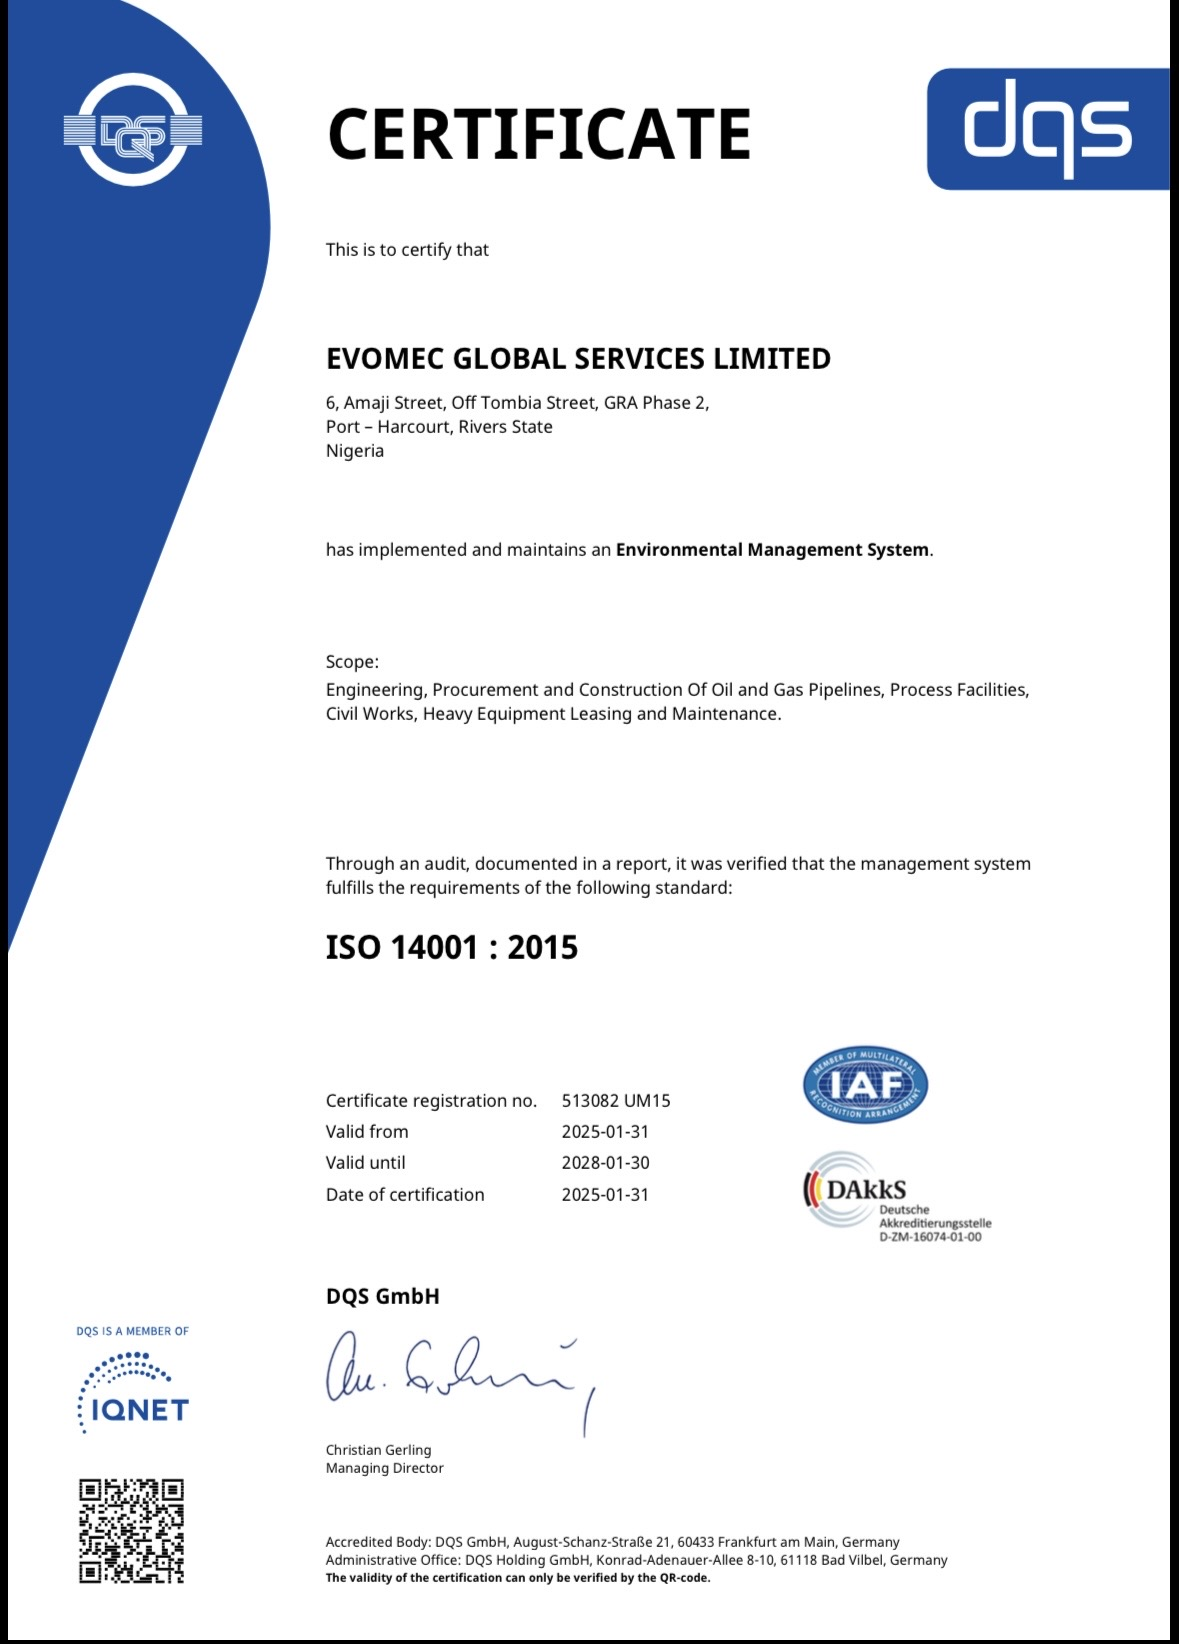
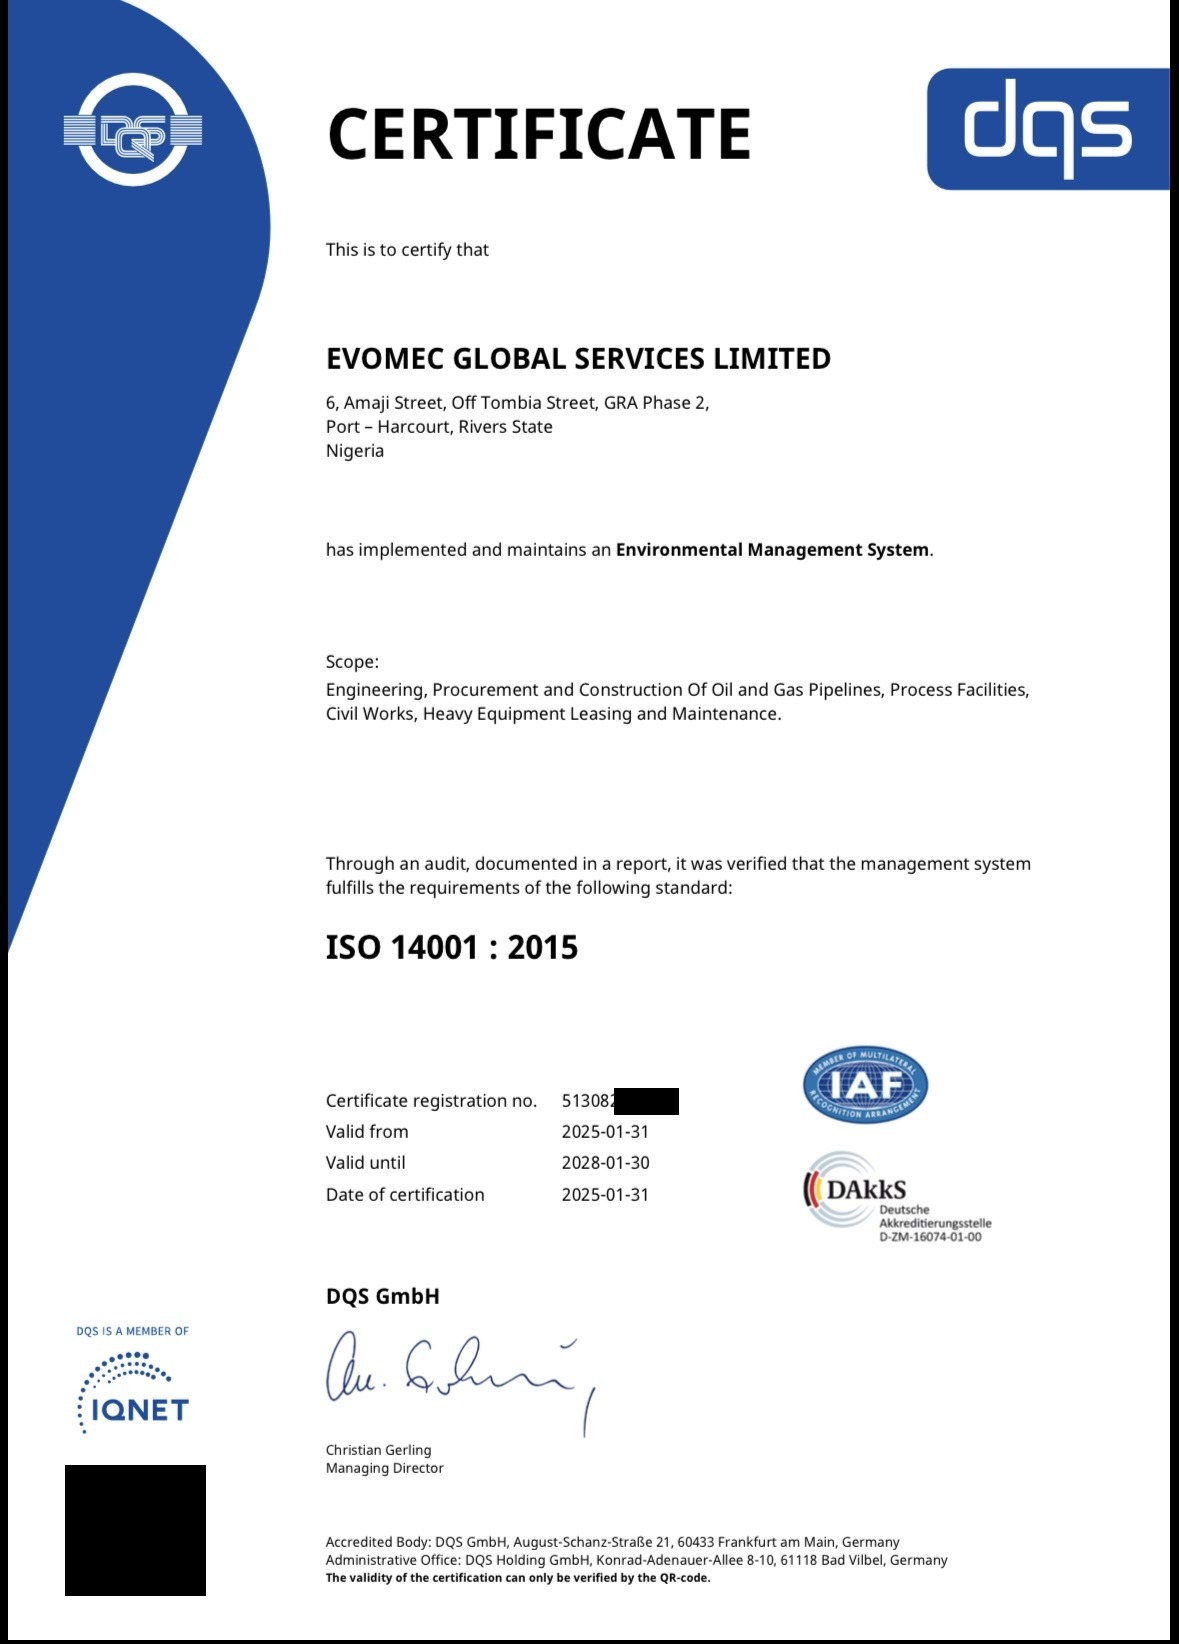
Redact QHSE certificate reg numbers/QR codes; add DQS+IQNet cert cards
- Black out the last 5 characters of the registration number and the
  QR code on all 4 existing certificate images (ISO 9001, 14001,
  45001, ISO/IEC 17025)
- Add 6 new certification cards to the QHSE page: redacted DQS and
  IQNet-annex certificates for ISO 9001:2015, ISO 14001:2015, and
  ISO 45001:2018

Claude-Session: https://claude.ai/code/session_01Rjb2Rv4DR2NMMckvi7mc5V

Changed region(s): [[0.0305, 0.8686, 0.1832, 0.9927], [0.5191, 0.6515, 0.5802, 0.6825]]

diff --git a/hse.html b/hse.html
@@ -263,6 +263,78 @@
         <span class="chip chip-success">Valid to 2028-05-30</span>
       </div>
     </button>
+
+    <button type="button" class="card cert-trigger text-left" style="padding:0; overflow:hidden;"
+      data-src="brand_assets/certifications/iso-9001-2015-dqs-2026.jpg" data-title="ISO 9001:2015 — Quality Management System (DQS)">
+      <div class="relative" style="aspect-ratio:1179/1640; border-bottom:1px solid rgba(44,110,155,0.28); background:#fff;">
+        <img src="brand_assets/certifications/iso-9001-2015-dqs-2026.jpg" alt="ISO 9001:2015 DQS certificate" class="absolute inset-0 w-full h-full object-cover object-top">
+      </div>
+      <div class="p-5">
+        <h3 class="text-title-md text-ink mb-1">ISO 9001:2015 (DQS)</h3>
+        <p class="text-body-sm text-ink-muted mb-2">Quality Management System &mdash; DQS</p>
+        <span class="chip chip-success">Valid to 2029-02-22</span>
+      </div>
+    </button>
+
+    <button type="button" class="card cert-trigger text-left" style="padding:0; overflow:hidden;"
+      data-src="brand_assets/certifications/iso-9001-2015-iqnet-2026.jpg" data-title="ISO 9001:2015 — Quality Management System (IQNet)">
+      <div class="relative" style="aspect-ratio:1179/1640; border-bottom:1px solid rgba(44,110,155,0.28); background:#fff;">
+        <img src="brand_assets/certifications/iso-9001-2015-iqnet-2026.jpg" alt="ISO 9001:2015 IQNet certificate" class="absolute inset-0 w-full h-full object-cover object-top">
+      </div>
+      <div class="p-5">
+        <h3 class="text-title-md text-ink mb-1">ISO 9001:2015 (IQNet)</h3>
+        <p class="text-body-sm text-ink-muted mb-2">Quality Management System &mdash; IQNet</p>
+        <span class="chip chip-success">Valid to 2029-02-22</span>
+      </div>
+    </button>
+
+    <button type="button" class="card cert-trigger text-left" style="padding:0; overflow:hidden;"
+      data-src="brand_assets/certifications/iso-14001-2015-dqs-2026.jpg" data-title="ISO 14001:2015 — Environmental Management System (DQS)">
+      <div class="relative" style="aspect-ratio:1179/1640; border-bottom:1px solid rgba(44,110,155,0.28); background:#fff;">
+        <img src="brand_assets/certifications/iso-14001-2015-dqs-2026.jpg" alt="ISO 14001:2015 DQS certificate" class="absolute inset-0 w-full h-full object-cover object-top">
+      </div>
+      <div class="p-5">
+        <h3 class="text-title-md text-ink mb-1">ISO 14001:2015 (DQS)</h3>
+        <p class="text-body-sm text-ink-muted mb-2">Environmental Management System &mdash; DQS</p>
+        <span class="chip chip-success">Valid to 2028-01-30</span>
+      </div>
+    </button>
+
+    <button type="button" class="card cert-trigger text-left" style="padding:0; overflow:hidden;"
+      data-src="brand_assets/certifications/iso-14001-2015-iqnet-2026.jpg" data-title="ISO 14001:2015 — Environmental Management System (IQNet)">
+      <div class="relative" style="aspect-ratio:1179/1640; border-bottom:1px solid rgba(44,110,155,0.28); background:#fff;">
+        <img src="brand_assets/certifications/iso-14001-2015-iqnet-2026.jpg" alt="ISO 14001:2015 IQNet certificate" class="absolute inset-0 w-full h-full object-cover object-top">
+      </div>
+      <div class="p-5">
+        <h3 class="text-title-md text-ink mb-1">ISO 14001:2015 (IQNet)</h3>
+        <p class="text-body-sm text-ink-muted mb-2">Environmental Management System &mdash; IQNet</p>
+        <span class="chip chip-success">Valid to 2028-01-30</span>
+      </div>
+    </button>
+
+    <button type="button" class="card cert-trigger text-left" style="padding:0; overflow:hidden;"
+      data-src="brand_assets/certifications/iso-45001-2018-dqs-2026.jpg" data-title="ISO 45001:2018 — Occupational Health &amp; Safety Management System (DQS)">
+      <div class="relative" style="aspect-ratio:1179/1640; border-bottom:1px solid rgba(44,110,155,0.28); background:#fff;">
+        <img src="brand_assets/certifications/iso-45001-2018-dqs-2026.jpg" alt="ISO 45001:2018 DQS certificate" class="absolute inset-0 w-full h-full object-cover object-top">
+      </div>
+      <div class="p-5">
+        <h3 class="text-title-md text-ink mb-1">ISO 45001:2018 (DQS)</h3>
+        <p class="text-body-sm text-ink-muted mb-2">Occupational Health &amp; Safety &mdash; DQS</p>
+        <span class="chip chip-success">Valid to 2028-11-26</span>
+      </div>
+    </button>
+
+    <button type="button" class="card cert-trigger text-left" style="padding:0; overflow:hidden;"
+      data-src="brand_assets/certifications/iso-45001-2018-iqnet-2026.jpg" data-title="ISO 45001:2018 — Occupational Health &amp; Safety Management System (IQNet)">
+      <div class="relative" style="aspect-ratio:1179/1640; border-bottom:1px solid rgba(44,110,155,0.28); background:#fff;">
+        <img src="brand_assets/certifications/iso-45001-2018-iqnet-2026.jpg" alt="ISO 45001:2018 IQNet certificate" class="absolute inset-0 w-full h-full object-cover object-top">
+      </div>
+      <div class="p-5">
+        <h3 class="text-title-md text-ink mb-1">ISO 45001:2018 (IQNet)</h3>
+        <p class="text-body-sm text-ink-muted mb-2">Occupational Health &amp; Safety &mdash; IQNet</p>
+        <span class="chip chip-success">Valid to 2028-11-26</span>
+      </div>
+    </button>
   </div>
 </section>
 
